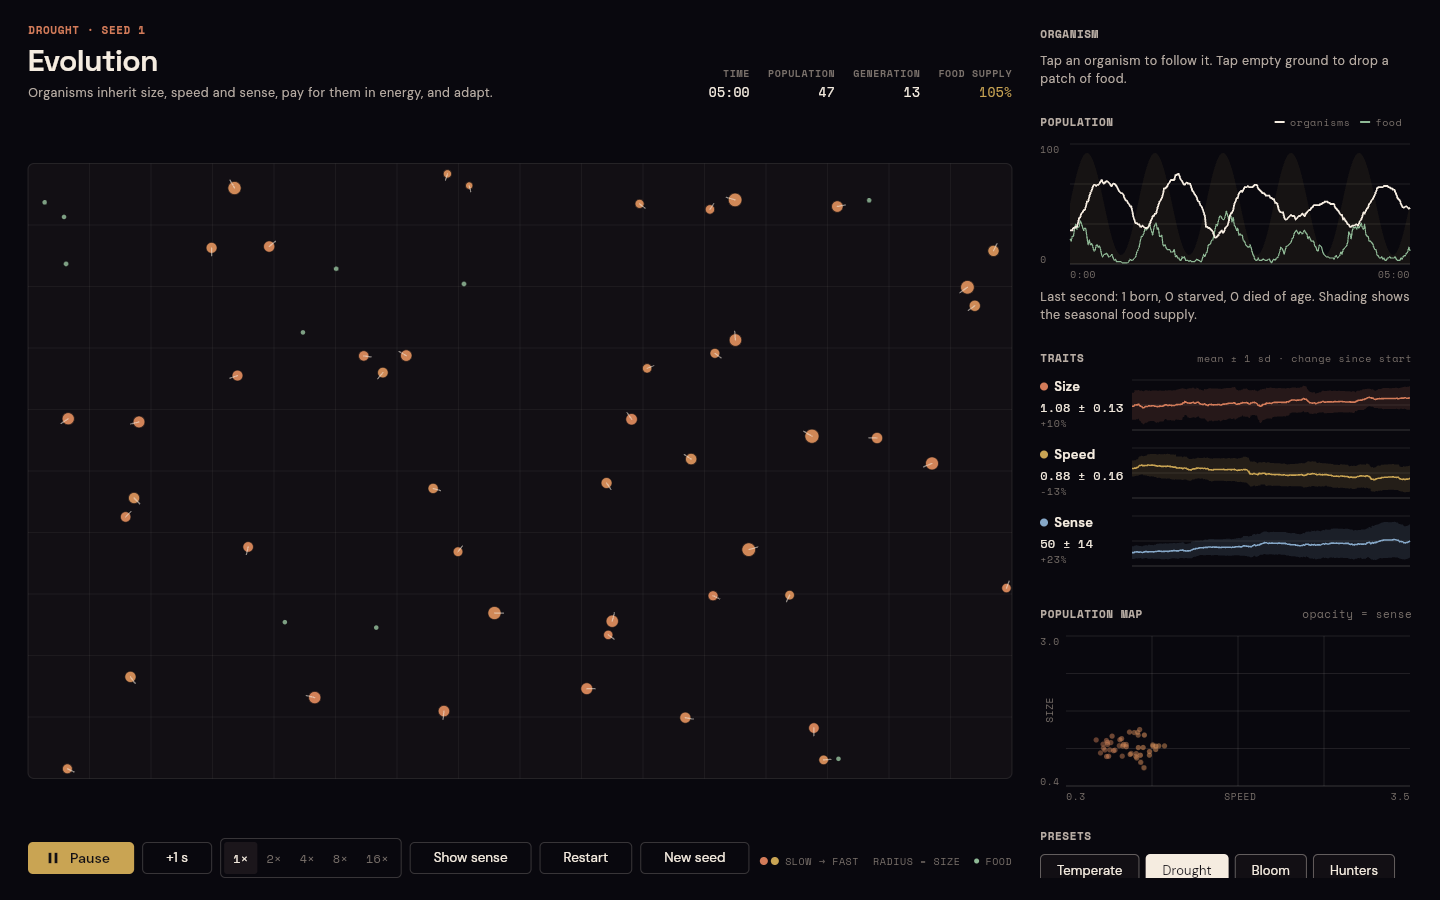
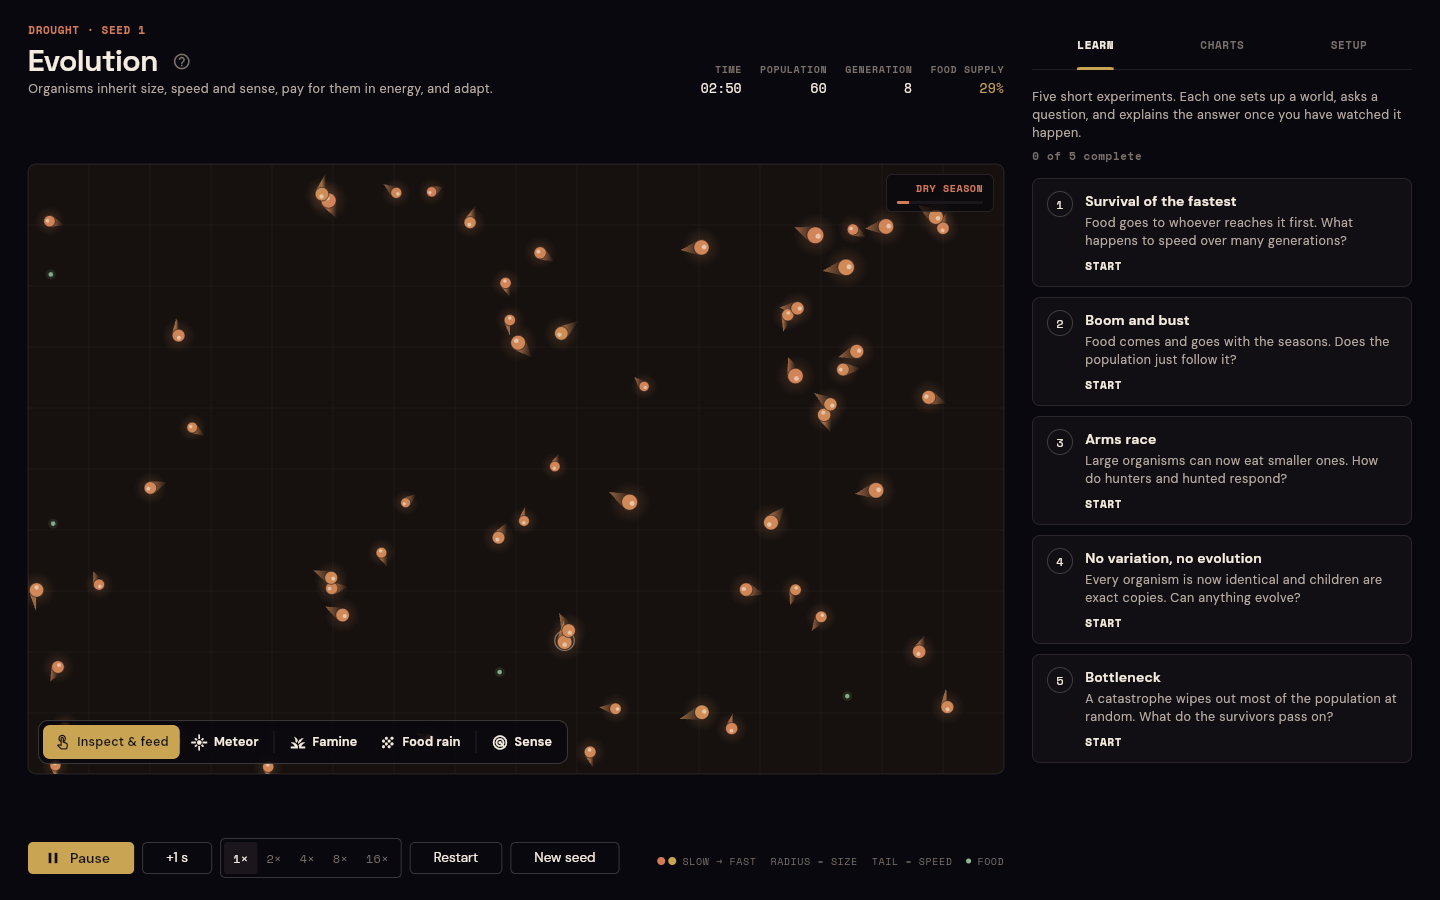
Document the lessons and tools in the README

diff --git a/README.md b/README.md
@@ -4,17 +4,32 @@ A natural selection sandbox built with Flutter. A population of simple organisms
 
 **[Open the live demo](https://chams99.github.io/Evolution/)**. It runs in the browser, with no install.
 
-![Hunters preset after seven minutes: speed has more than doubled under predation pressure](docs/screenshot.png)
+![The Arms race lesson in progress: hunters with long wakes, a live goal, and the wet-season tint on the field](docs/screenshot.png)
 
-## What you can do
+## Learn by experiment
 
-- **Watch traits shift.** Each trait shows its mean and spread over the whole run. Population is plotted against food, with the seasonal supply shaded behind it, and a size-speed map shows every living organism.
-- **Follow one organism.** Tap it to see its energy, age, genome, offspring, kills and, eventually, how it died. Tap empty ground to drop a patch of food.
-- **Compare environments.** Four presets push selection in different directions (see below).
-- **Run experiments.** Change food rate, food energy, seasons, mutation strength, lifespan and predation, then restart. The same seed always replays the same run.
-- **Control time.** Play at 1× to 16×, or step one simulated second at a time. Keyboard: `Space` plays or pauses, `→` steps, `R` restarts.
-- **Take the data with you.** Copy the full history as CSV, with one row per simulated second.
-- **Share a run.** `?preset=hunters&seed=3&at=240` opens Hunters with seed 3, already four minutes in.
+The **Learn** tab has five guided experiments. Each one sets up a world, asks a question, tells you what to watch, tracks a live goal, and explains what happened once you have seen it:
+
+| # | Lesson | The question |
+| --- | --- | --- |
+| 1 | Survival of the fastest | Food goes to whoever reaches it first. What happens to speed? |
+| 2 | Boom and bust | Food comes and goes with the seasons. Does the population just follow it? |
+| 3 | Arms race | Large organisms can eat smaller ones. How do hunters and hunted respond? |
+| 4 | No variation, no evolution | Every organism is identical and children are exact copies. Can anything evolve? |
+| 5 | Bottleneck | A catastrophe wipes out most of the population at random. What do the survivors pass on? |
+
+While any run is going, the trait panel marks each trait as **▲ favoured**, **▼ selected against** or neutral. The mark is a standardised selection differential: how far the parents of the last 30 seconds of births sit from the population mean. A "Right now" line puts it into words, for example "Faster organisms are leaving the most offspring right now". Progress is saved, and a short tour runs on the first visit.
+
+## Play with it
+
+- **Inspect and feed.** Tap an organism to follow it: its energy, genome, offspring and kills, and its whole living family, ringed on the field. Tap empty ground to drop food.
+- **Cause disasters.** Strike with a **meteor**, trigger a **famine**, or make **food rain**, then watch who recovers.
+- **Watch the season.** The ground turns dry and warm when food is short and green when it is plentiful. Births ripple, deaths fade, and each body's wake grows with its speed.
+- **Catch milestones.** New generations, population crashes, trait records and the fate of the organism you are following pop up on the field.
+- **Compare environments.** Four presets push selection in different directions (see below), and every parameter can be tuned. The same seed always replays the same run.
+- **Control time.** Play at 1× to 16×, or step one simulated second at a time. Keyboard: `Space` plays or pauses, `→` steps, `R` restarts, `1` selects the inspect tool and `2` the meteor.
+- **Keep the data.** Copy the full history as CSV, with one row per simulated second.
+- **Share a run or a lesson.** `?preset=hunters&seed=3&at=240` opens Hunters with seed 3, four minutes in. `?lesson=bottleneck` opens a lesson directly.
 
 ## The model
 
@@ -58,12 +73,13 @@ lib/
     rng.dart          Seeded random source, so every run can be replayed
     sample.dart       Per-second statistics and CSV export
   app/            The interface
-    lab_controller.dart  Runs the world on a fixed timestep tied to the frame ticker
+    lab_controller.dart  Runs the world on a fixed timestep; tools, milestones, insight
+    lessons.dart         The five experiments and their goals
     lab_screen.dart      Side-by-side layout on wide screens, tabs on phones
-    widgets/             Field and chart painters, panels
+    widgets/             Field and chart painters, overlays, panels, lessons, tour
 test/
-  sim/            Determinism, bounds, food, births, predation, seasons, CSV
-  app/            Layouts at phone, tablet and desktop sizes; controls and taps
+  sim/            Determinism, bounds, food, births, predation, seasons, disasters, selection, lineage
+  app/            Every lesson completes with its seed; layouts at phone, tablet and desktop sizes
 tool/balance.dart Headless runner used to tune the energy model
 ```
 
